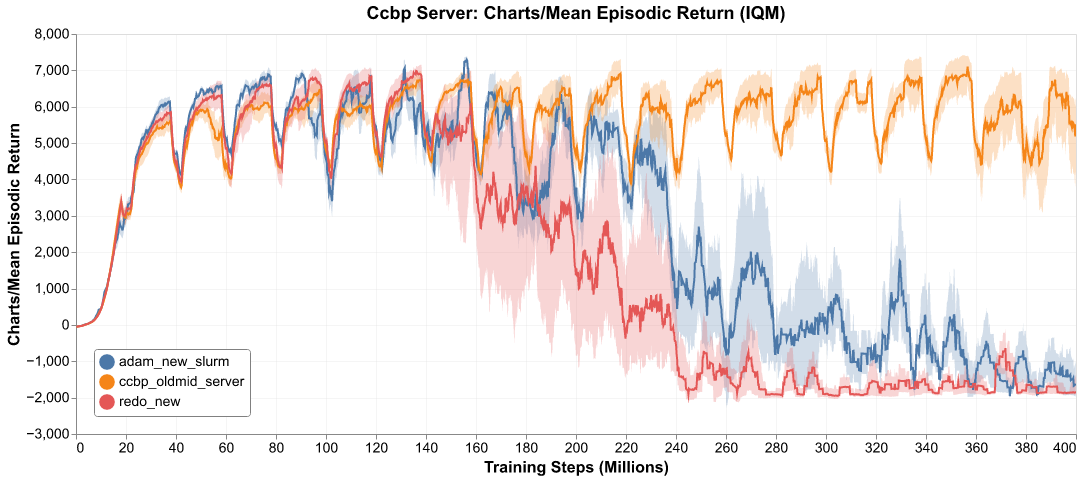
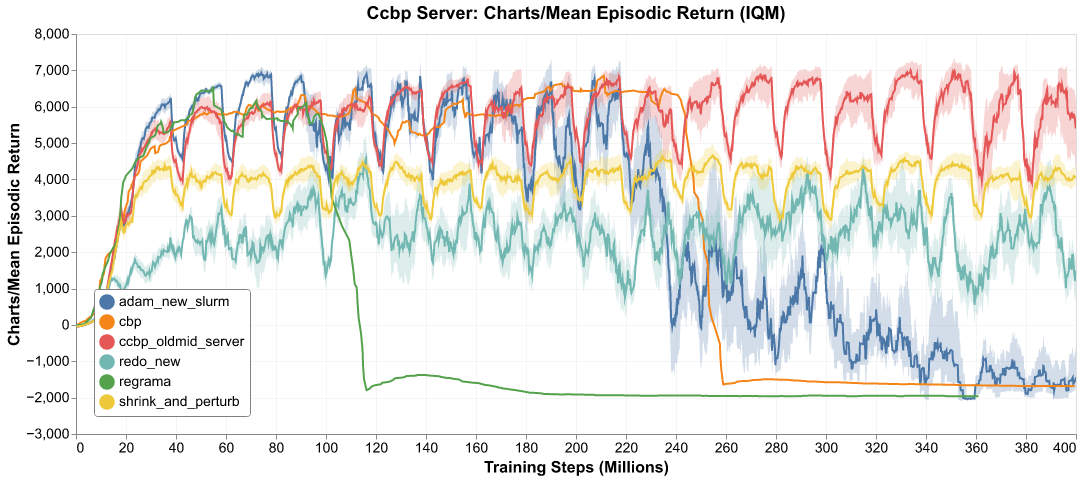
Updated cifar eval metrics

diff --git a/continual_learning_2/experiments/batch_runs/sweep_perm_mnist.py b/continual_learning_2/experiments/batch_runs/sweep_perm_mnist.py
@@ -12,13 +12,26 @@ from continual_learning_2.configs.logging import LoggingConfig
 from continual_learning_2.configs.models import MLPConfig
 from continual_learning_2.trainers.continual_supervised_learning import HeadResetClassificationCSLTrainer
 
+# SWEEP_RANGES = {
+#     "adam": {"learning_rate": [1e-3, 3e-4, 1e-4]},
+#     "adamw": {"learning_rate": [1e-3, 3e-4, 1e-4]},
+#     "muon": {"learning_rate": [1e-3, 3e-4, 1e-4]},
+#
+#     "regrama": {"tx_lr": [1e-3], "max_reset_frac": [None, 0.1], "update_frequency": [50, 100, 1000, 10_000], "score_threshold": [0.001, 0.005, 0.0075, 0.01, 0.025, 0.05, 0.1, 0.25, 0.5,]},
+#     "redo":    {"tx_lr": [1e-3], "max_reset_frac": [None, 0.1], "update_frequency": [50, 100, 1000, 10_000], "score_threshold": [0.001, 0.005, 0.0075, 0.01, 0.025, 0.05, 0.1, 0.25, 0.5,]},
+#     "cbp": {"tx_lr": [1e-3], "decay_rate": [0.95, 0.99], "replacement_rate": [1e-6, 1e-5, 1e-4], "maturity_threshold": [100, 1000]},
+#     "ccbp": {"tx_lr": [1e-3], "decay_rate": [0., 0.99], "replacement_rate": [0.01, 0.05, 0.2], "update_frequency": [100, 1000]},
+#     "shrink_and_perturb": {"tx_lr": [1e-3], "shrink": [1-1e-3, 1-1e-4, 1-1e-5], "perturb": [1e-3, 1e-4, 1e-5], "every_n": [1, 10, 100]},
+# }
+
+
 SWEEP_RANGES = {
     "adam": {"learning_rate": [1e-3, 3e-4, 1e-4]},
     "adamw": {"learning_rate": [1e-3, 3e-4, 1e-4]},
     "muon": {"learning_rate": [1e-3, 3e-4, 1e-4]},
 
-    "regrama": {"tx_lr": [1e-3], "max_reset_frac": [None, 0.1], "update_frequency": [50, 100, 1000, 10_000], "score_threshold": [0.001, 0.005, 0.0075, 0.01, 0.025, 0.05, 0.1, 0.25, 0.5,]},
-    "redo":    {"tx_lr": [1e-3], "max_reset_frac": [None, 0.1], "update_frequency": [50, 100, 1000, 10_000], "score_threshold": [0.001, 0.005, 0.0075, 0.01, 0.025, 0.05, 0.1, 0.25, 0.5,]},
+    "regrama": {"tx_lr": [1e-3], "max_reset_frac": [None], "update_frequency": [100, 1000, 10_000], "score_threshold": [0.005, 0.01, 0.025, 0.05, 0.1, 0.25, 0.5,]},
+    "redo":    {"tx_lr": [1e-3], "max_reset_frac": [None], "update_frequency": [100, 1000, 10_000], "score_threshold": [0.005, 0.01, 0.025, 0.05, 0.1, 0.25, 0.5,]},
     "cbp": {"tx_lr": [1e-3], "decay_rate": [0.95, 0.99], "replacement_rate": [1e-6, 1e-5, 1e-4], "maturity_threshold": [100, 1000]},
     "ccbp": {"tx_lr": [1e-3], "decay_rate": [0., 0.99], "replacement_rate": [0.01, 0.05, 0.2], "update_frequency": [100, 1000]},
     "shrink_and_perturb": {"tx_lr": [1e-3], "shrink": [1-1e-3, 1-1e-4, 1-1e-5], "perturb": [1e-3, 1e-4, 1e-5], "every_n": [1, 10, 100]},
@@ -68,7 +81,7 @@ def run_config(algo: str, config_id: int, seed: int = 42, wandb_entity: str = No
         data_cfg=DatasetConfig(
             name="permuted_mnist",
             seed=seed,
-            batch_size=32,
+            batch_size=16,
             num_tasks=50,
             num_epochs_per_task=1,
             num_workers=0,
@@ -80,7 +93,7 @@ def run_config(algo: str, config_id: int, seed: int = 42, wandb_entity: str = No
             run_name=f"{algo}_{tag}_s{seed}",
             wandb_entity=wandb_entity,
             wandb_project=wandb_project,
-            group=f"perm_mnist_{algo}_sweep",
+            group=f"perm_mnist_{algo}_sweep_16_50_2",
             wandb_mode="online" if wandb_project else "disabled",
             interval=100,
             eval_during_training=True,

diff --git a/continual_learning_2/optim/ccbp.py b/continual_learning_2/optim/ccbp.py
@@ -1,5 +1,5 @@
 from functools import partial
-from typing import Callable, Tuple
+from typing import Callable, Tuple, Literal
 
 import flax
 import jax
@@ -52,6 +52,7 @@ def continuous_reset_weights(
     replacement_rate: Float[Array, ""] = 0.012,
     sharpness: Float[Array, ""] = 16, # How linear/expone)ntial? inf=hard resets
     threshold: Float[Array, ""] = 0.95, # Where is the cut off to hard reset
+    transform_type: Literal["exp", "sigmoid", "softplus", "linear"] = "exp"
 ):
     all_layer_names = list(weights.keys())
     logs = {}
@@ -64,7 +65,13 @@ def continuous_reset_weights(
 
         # transform = lambda x: 1 / (1 + jnp.exp(sharpness * (x - threshold))) # Naturally 0-1
         # transform = lambda x: jnp.clip(jnp.exp(-sharpness * (x - threshold)), 0, 1)
-        transform = lambda x: jnp.minimum(jnp.exp(-sharpness * (x - threshold)), 1)
+
+        match transform_type:
+            case "exp": transform = lambda x: jnp.minimum(jnp.exp(-sharpness * (x - threshold)), 1)
+            case "sigmoid": transform = lambda x: jnp.minimum(sharpness / (1 + jnp.exp(x - threshold)), 1)
+            case "softplus": transform = lambda x: jnp.minimum(jnp.log(1 + sharpness*jnp.exp(x - threshold)), 1)
+            case "linear": transform = lambda x: jnp.clip(-sharpness * (x - threshold),0, 1)
+
         transformed_utilities = jax.tree.map(transform, utilities)
 
         reset_prop = replacement_rate * transformed_utilities[layer_name]
@@ -125,6 +132,7 @@ def ccbp(
     update_frequency: int = 1000,
     weight_init_fn: Callable = jax.nn.initializers.he_uniform(),
     out_layer_name: str = "output",
+    transform_type: Literal["exp", "sigmoid", "softplus", "linear"] = "exp"
 ) -> optax.GradientTransformationExtraArgs:
     """Continuous Continual Backpropergation (CCBP)"""
 
@@ -221,7 +229,8 @@ def ccbp(
                 weight_init_fn,
                 replacement_rate,
                 sharpness,
-                threshold
+                threshold,
+                transform_type,
             )
 
             # Expermiment: reset bias/continuous reset bias/ leave bias alone/ bias correction

diff --git a/continual_learning_2/data/base.py b/continual_learning_2/data/base.py
@@ -381,6 +381,41 @@ class ClassIncrementalDataset(SplitDataset):
 
         self._dataset_train, self._dataset_test = self.dataset["train"], self.dataset["test"]
 
+    def _cumulative_class_mask(self, task_id: int) -> jax.Array:
+        """Create mask for all classes seen up to and including task_id."""
+        num_classes_seen = self.class_increment * (task_id + 1)
+        classes_seen = self.class_order[:num_classes_seen]
+        mask = jnp.zeros((self.NUM_CLASSES,), dtype=bool).at[classes_seen].set(True)
+        return mask
+
+    def evaluate(self, model: TrainState, forgetting: bool = False) -> dict[str, float]:
+        metrics = {}
+
+        if forgetting:
+            for task in range(self.current_task):
+                test_set = self._get_task_test(task)
+                task_mask = self._cumulative_class_mask(task)
+                task_metrics = self._eval_task(model, test_set, class_mask=task_mask)
+                metrics.update(prefix_dict(f"metrics/task_{task}", task_metrics))
+
+        # Evaluate current task with cumulative masking
+        print(f"- Evaluating on task {self.current_task}")
+        task_mask = self._cumulative_class_mask(self.current_task)
+        latest = self._eval_task(model, self._get_task_test(self.current_task), class_mask=task_mask)
+
+        # Use task-aware metrics as primary metrics for class-incremental learning
+        metrics.update(prefix_dict("metrics", {
+            "eval_loss":     latest["eval_loss_task"],
+            "eval_accuracy": latest["eval_accuracy_task"],
+            # keep CI metrics for reference
+            "eval_loss_ci":     latest["eval_loss_ci"],
+            "eval_accuracy_ci": latest["eval_accuracy_ci"],
+        }))
+
+        # Also store the full set under the task-specific prefix
+        metrics.update(prefix_dict(f"metrics/task_{self.current_task}", latest))
+        return metrics
+
     def _get_task(self, task_id: int) -> grain.DataLoader:
         if task_id < 0 or task_id >= self.num_tasks:
             raise ValueError(f"Invalid task id: {task_id}")

diff --git a/continual_learning_2/experiments/perm_mnist.py b/continual_learning_2/experiments/perm_mnist.py
@@ -57,7 +57,7 @@ def run_all_perm_mnist():
         "regrama": RegramaConfig(
             tx=base_optim,
             update_frequency=1000,
-            score_threshold=0.0095,
+            score_threshold=0.25,
             seed=args.seed,
             weight_init_fn=jax.nn.initializers.he_uniform(),
         ),
@@ -71,7 +71,7 @@ def run_all_perm_mnist():
         "redo": RedoConfig(
             tx=base_optim,
             update_frequency=1000,
-            score_threshold=0.025,
+            score_threshold=0.65,
             # score_threshold=0.001,
             seed=args.seed,
             weight_init_fn=jax.nn.initializers.he_uniform(),
@@ -118,8 +118,8 @@ def run_all_perm_mnist():
             data_cfg=DatasetConfig(
                 name="permuted_mnist",
                 seed=args.seed,
-                batch_size=1,
-                num_tasks=250,
+                batch_size=8,
+                num_tasks=150,
                 num_epochs_per_task=1,
                 num_workers=0,  # (os.cpu_count() or 0) // 2,
             ),

diff --git a/continual_learning_2/plots/copy_runs.py b/continual_learning_2/plots/copy_runs.py
@@ -114,7 +114,7 @@ def main(args):
 
 if __name__ == "__main__":
     parser = ArgumentParser(description="Copies one or all of the runs in a wandb project to another.")
-    parser.add_argument("-se", "--src-entity", type=str, default="indezera", help="Source wandb entity name.")
+    parser.add_argument("-se", "--src-entity", type=str, default=None, help="Source wandb entity name.")
     parser.add_argument("-sp", "--src-project", type=str, help="Name of the wandb projecet.")
     parser.add_argument("-de", "--dst-entity", type=str, default=None, help="Destination wandb entity name.")
     parser.add_argument("-dp", "--dst-project", type=str, default=None, help="Name of destination wandb project.")
